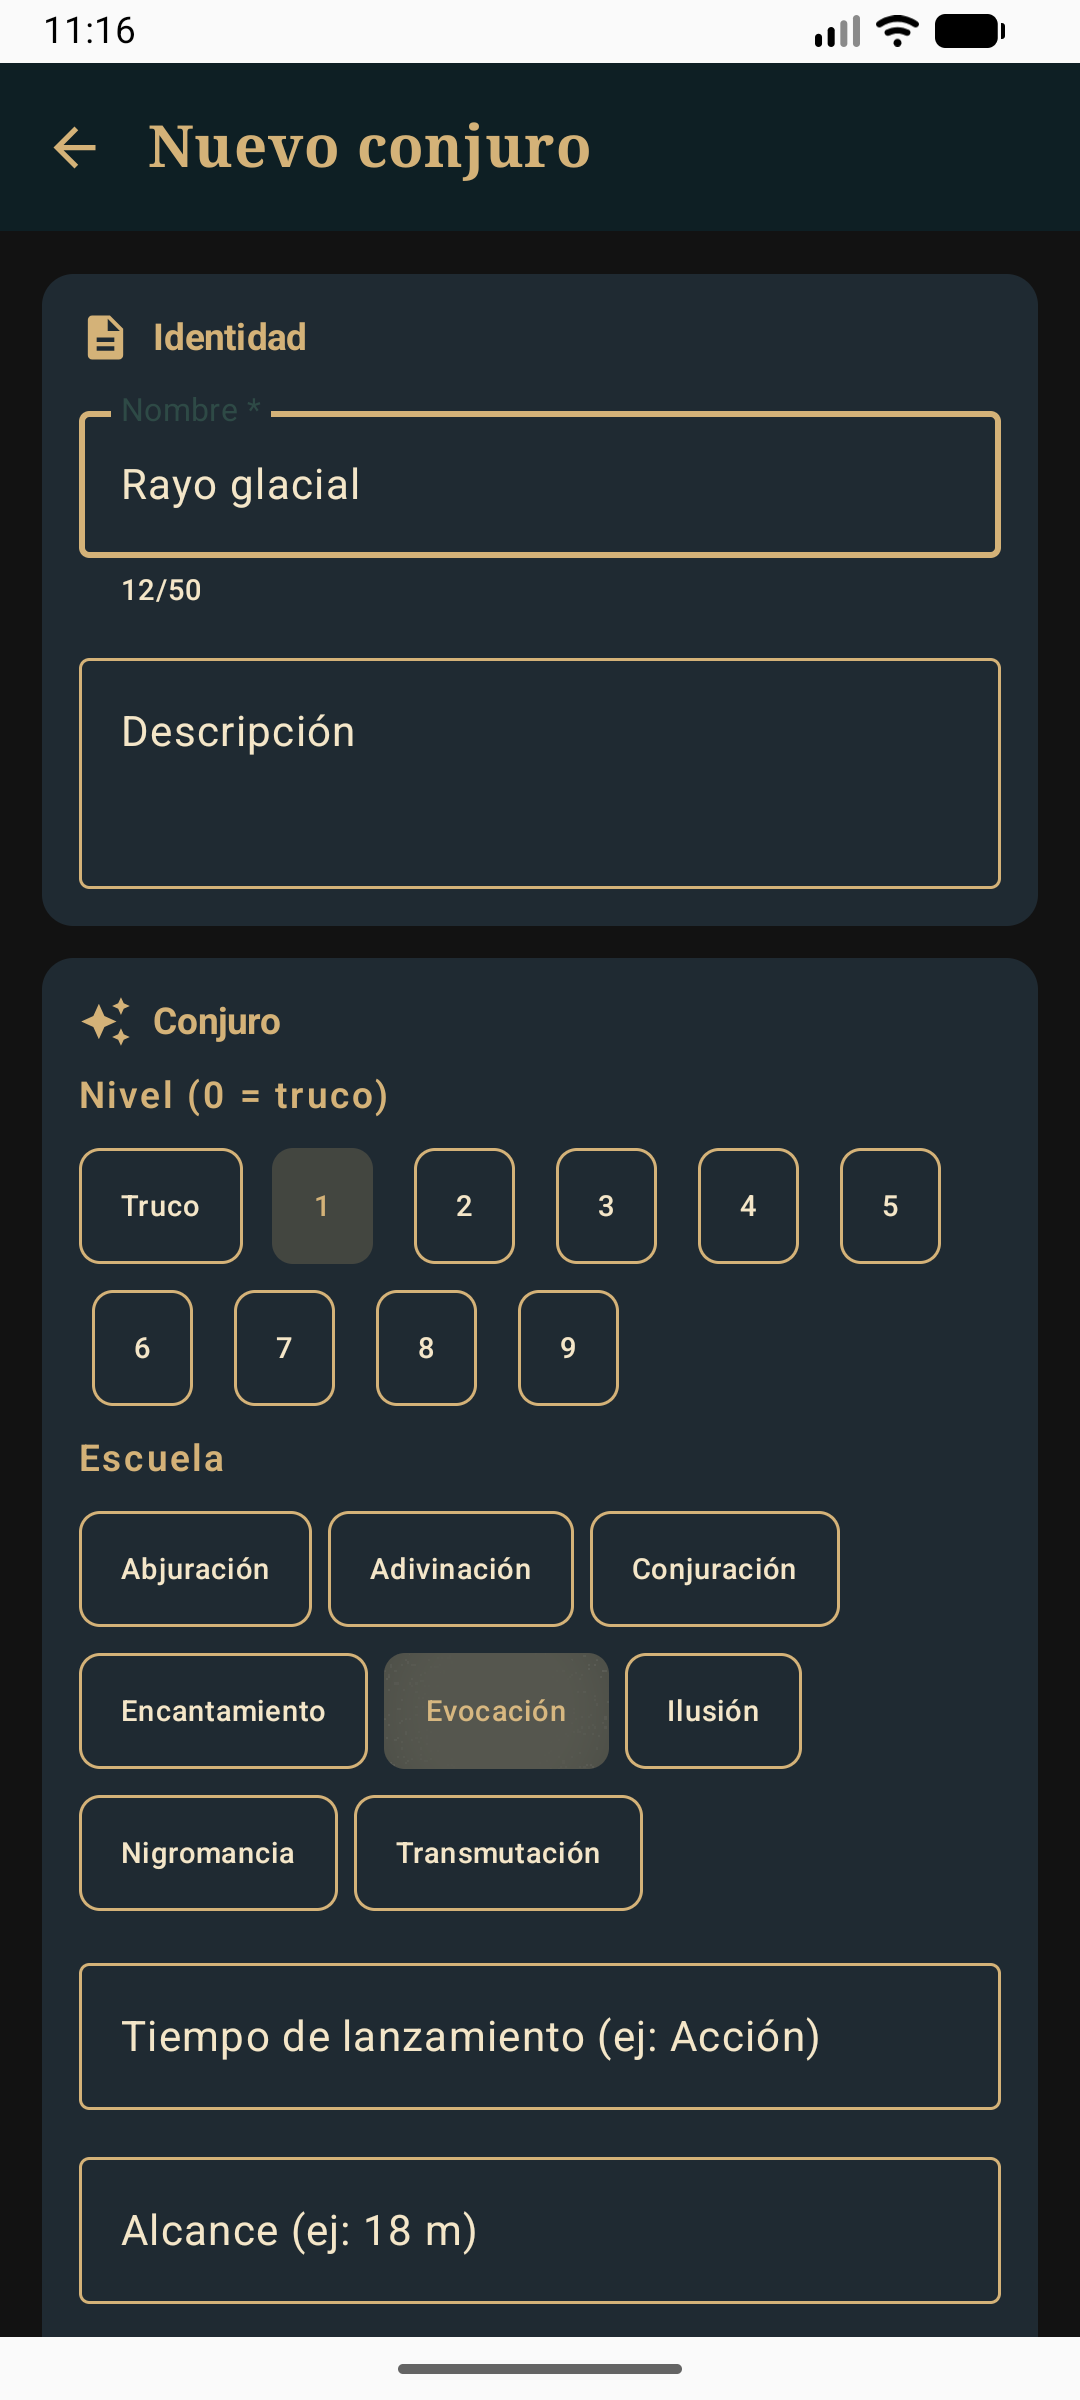
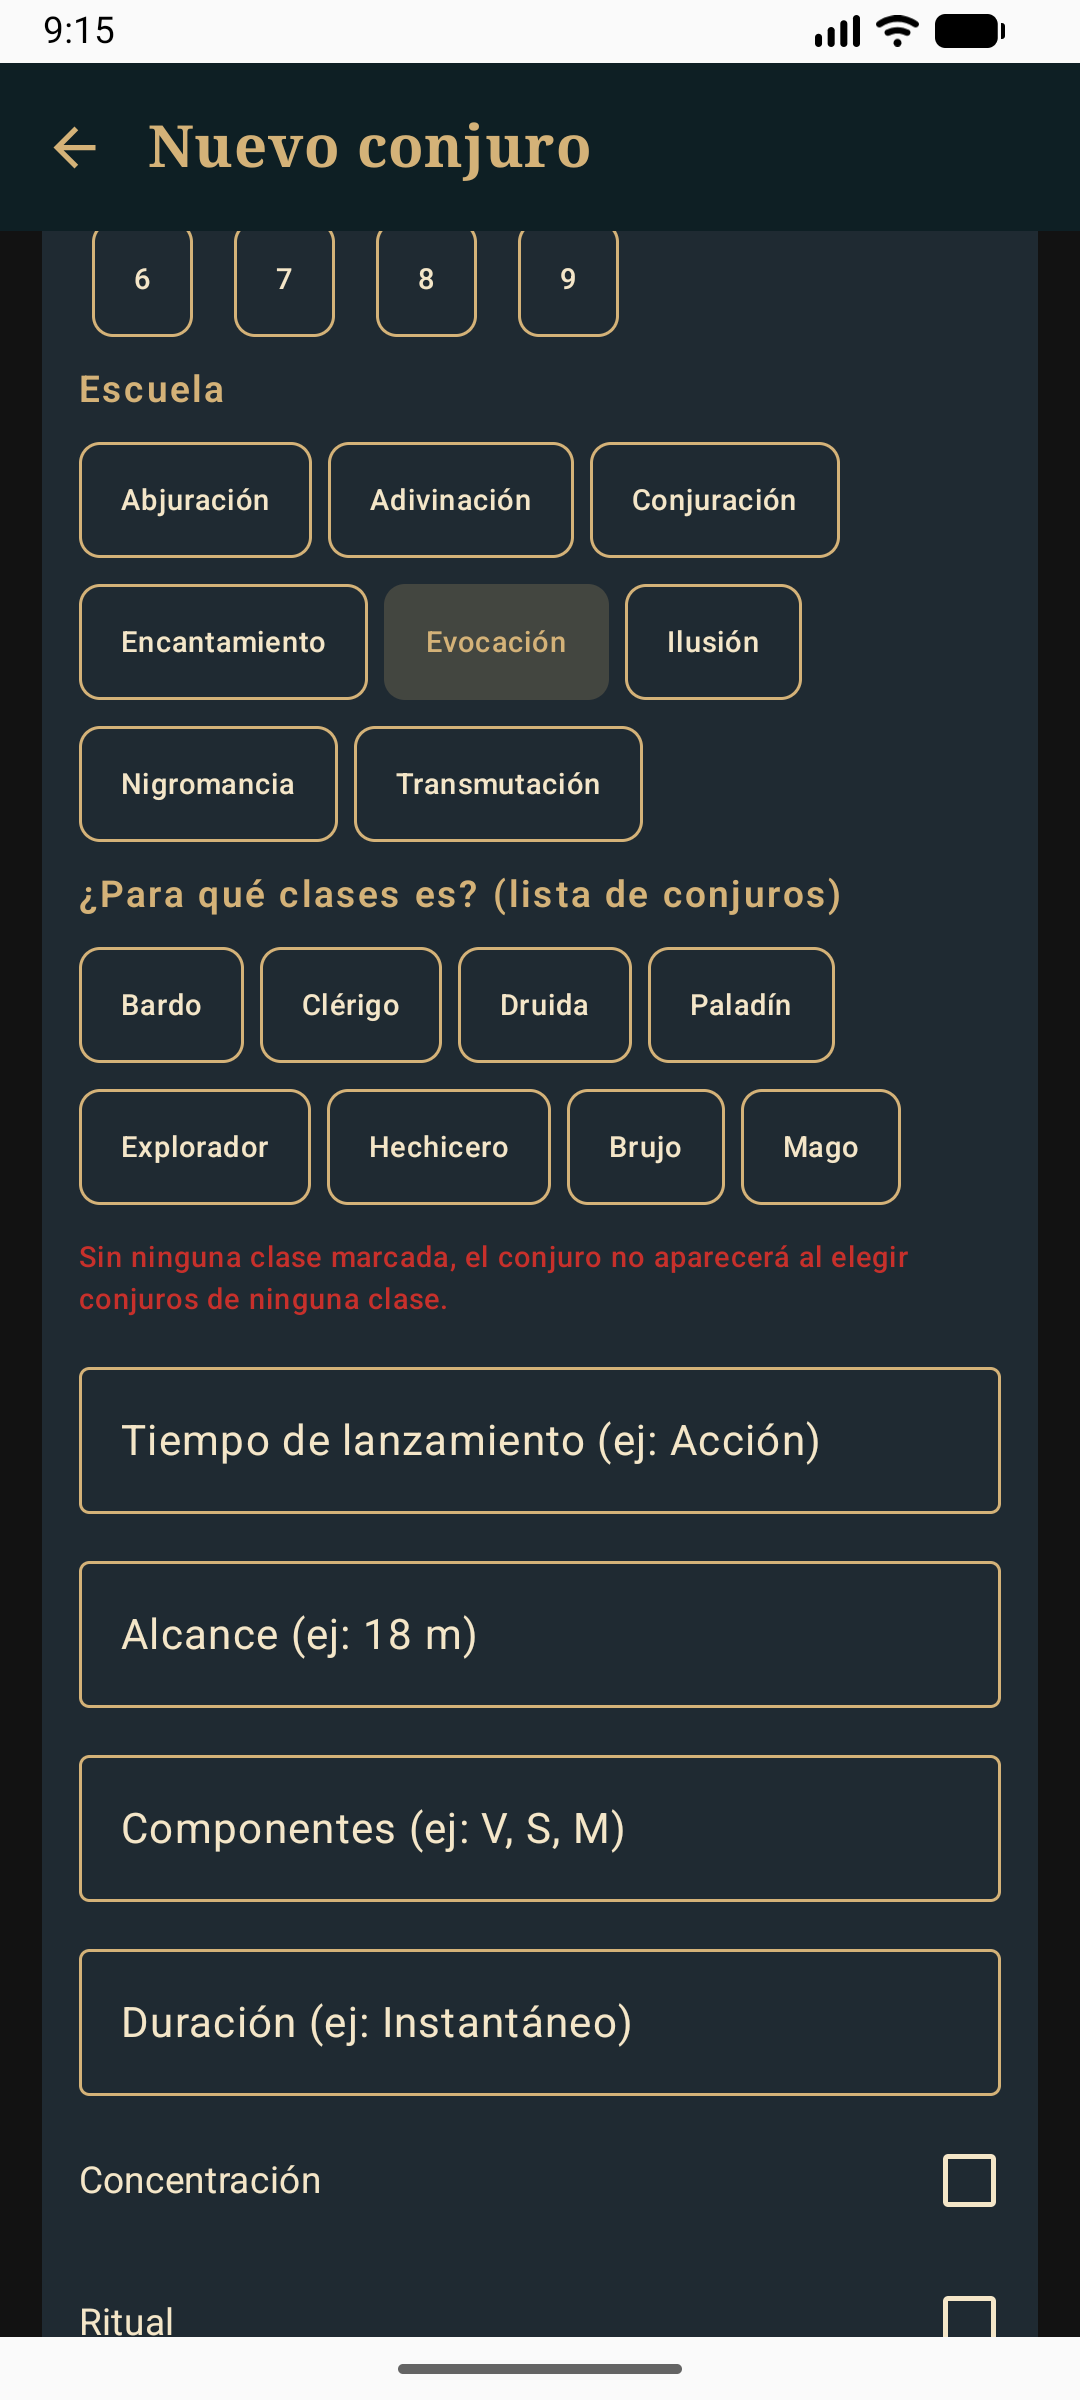
docs: lista de clase del formulario de conjuros en la guia

diff --git a/editor.html b/editor.html
@@ -89,7 +89,7 @@
 <ol>
 <li>En la sección <strong>Conjuros</strong> toca <strong>+</strong>.</li>
 <li>En <strong>Identidad</strong> escribe el nombre y, si quieres, la descripción.</li>
-<li>En <strong>Conjuro</strong> elige el nivel (<code>Truco</code> o 1 a 9) y la escuela, y rellena tiempo de lanzamiento, alcance, componentes y duración. Marca <strong>Concentración</strong> o <strong>Ritual</strong> si aplica, y las <strong>listas de clase</strong> que pueden usarlo (así aparece al elegir conjuros de esa clase).</li>
+<li>En <strong>Conjuro</strong> elige el nivel (<code>Truco</code> o 1 a 9) y la escuela. Justo debajo, en <strong>¿Para qué clases es?</strong>, marca las listas de clase que pueden usarlo (Bardo, Clérigo, Druida, Paladín, Explorador, Hechicero, Brujo, Mago): así aparece al elegir conjuros de esa clase. Si no marcas ninguna, el formulario te avisa en rojo y el conjuro no saldrá en ninguna lista. Después rellena tiempo de lanzamiento, alcance, componentes y duración, y marca <strong>Concentración</strong> o <strong>Ritual</strong> si aplica.</li>
 </ol>
 <figure><img src="img/conjuro-nuevo.png" alt="Formulario de conjuro nuevo: nivel, escuela y datos de lanzamiento" loading="lazy" /><figcaption>Formulario de conjuro nuevo: nivel, escuela y datos de lanzamiento</figcaption></figure>
 <ol>
